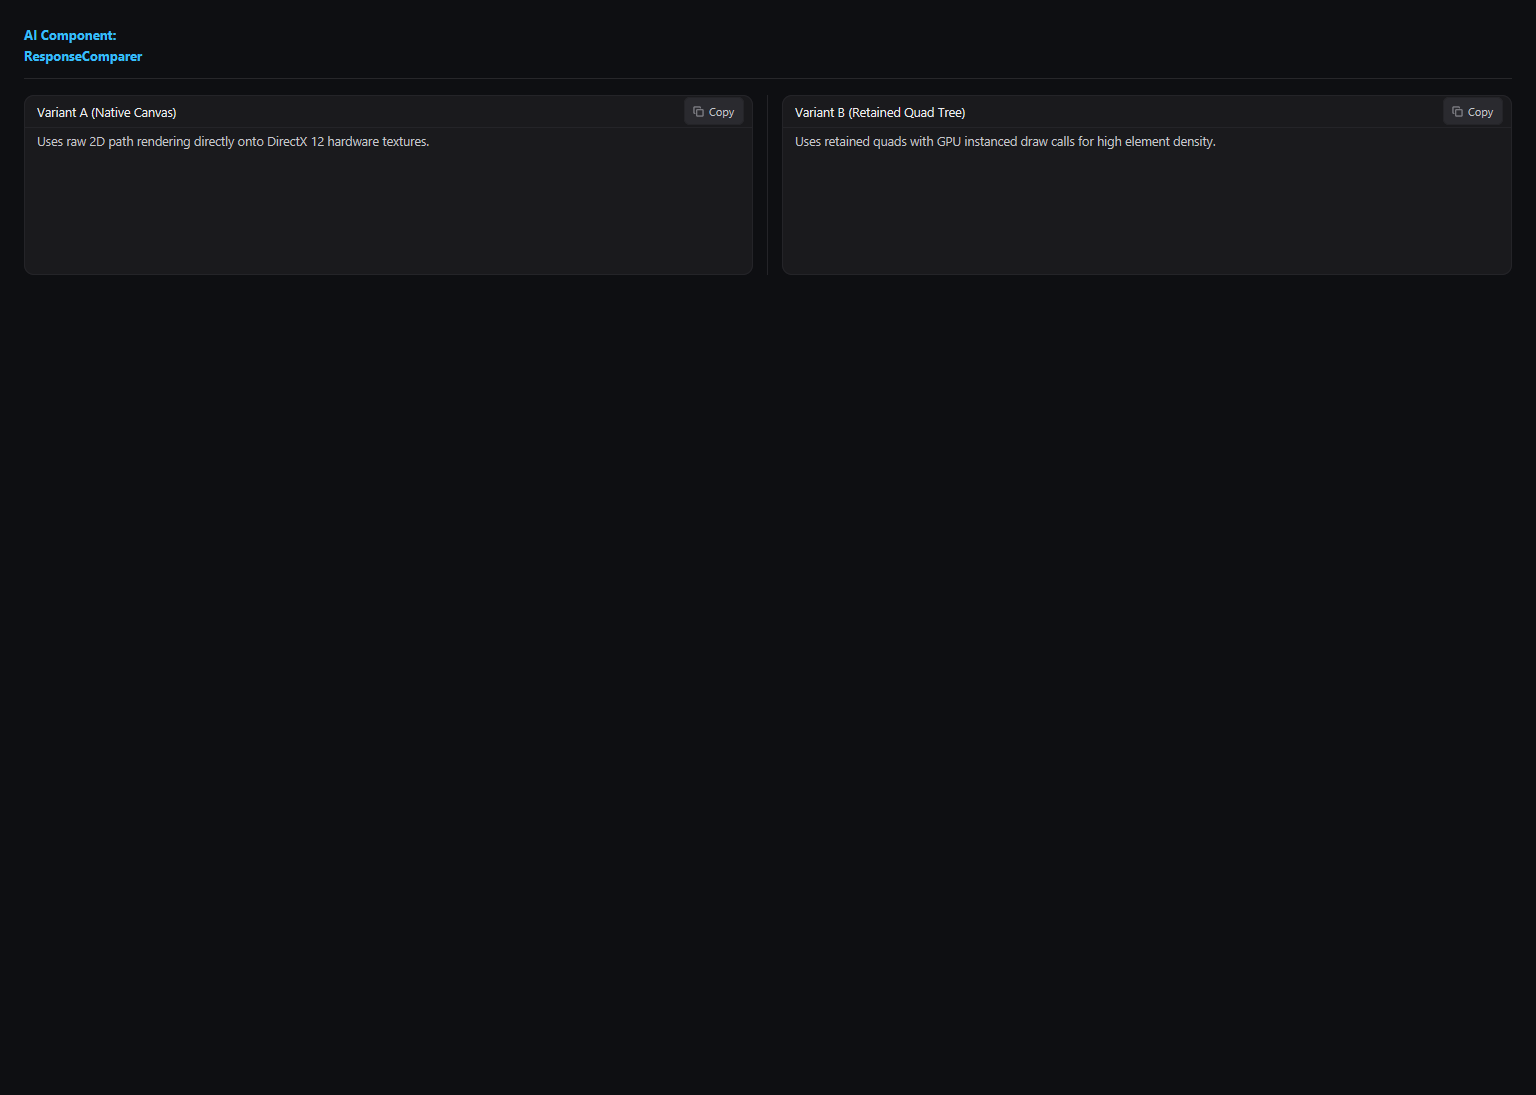
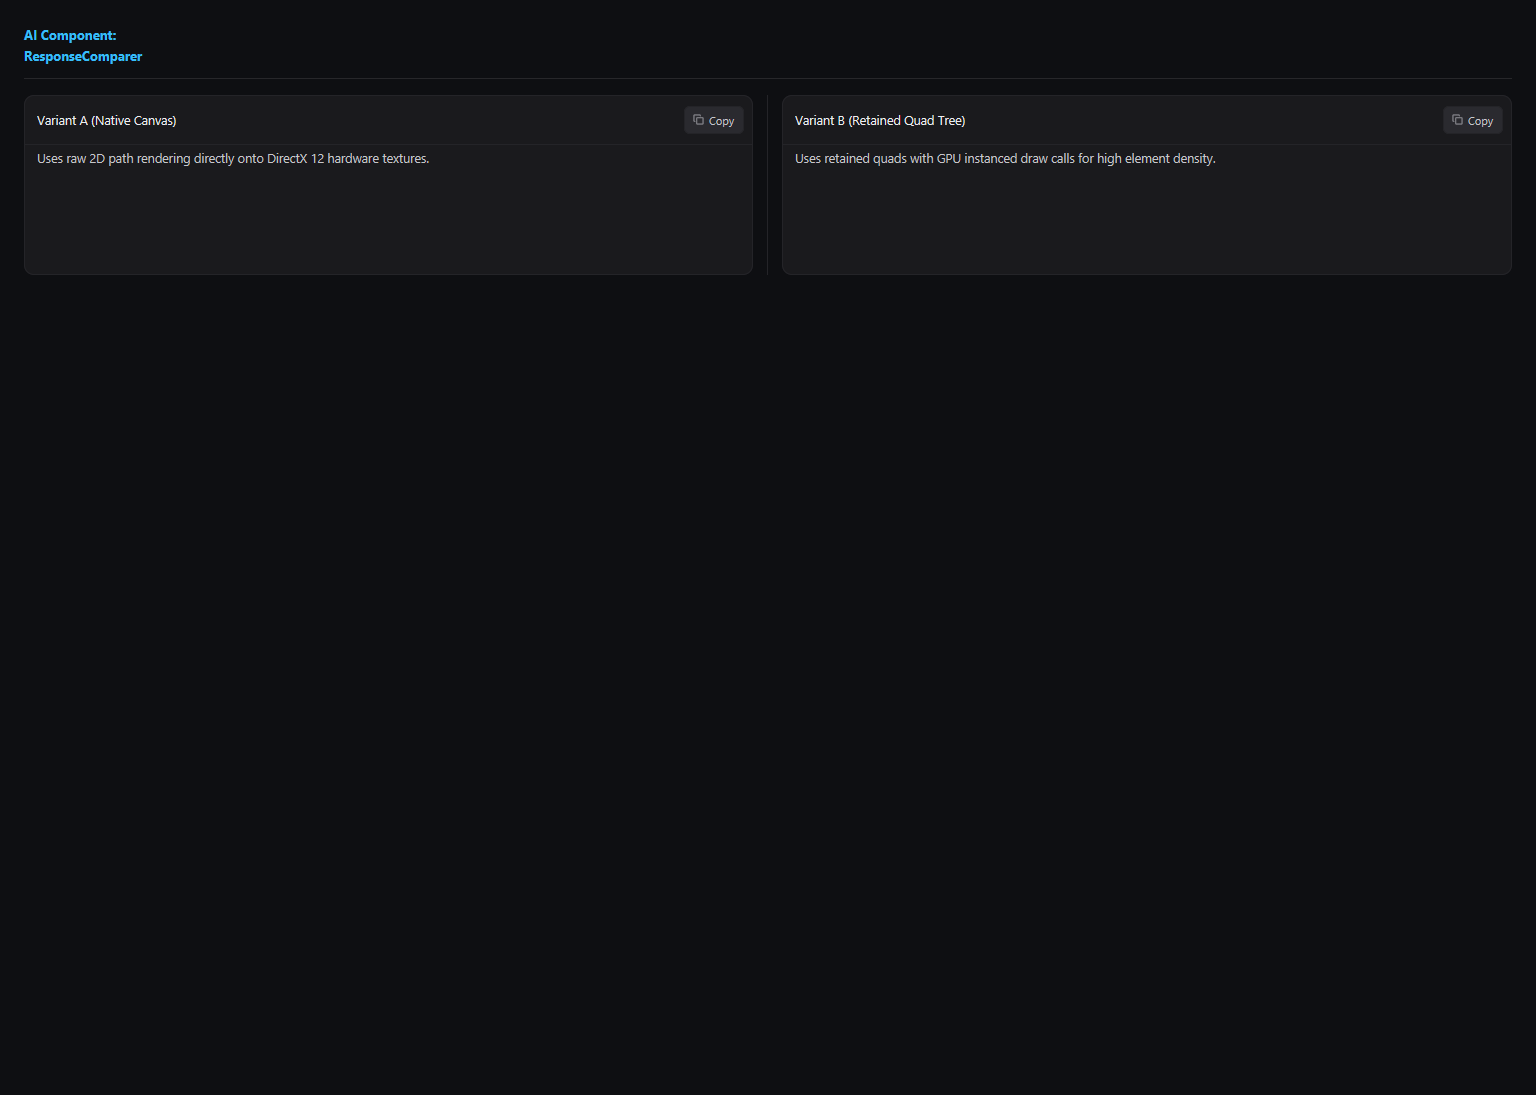
fix(ai): add padding to ModelLab comparison copy buttons

Changed region(s): [[0.4375, 0.0932, 0.8125, 0.1553], [0.0312, 0.0932, 0.2812, 0.1553], [0.9375, 0.0932, 0.9688, 0.1242]]

diff --git a/packages/ui/src/ai/ResponseComparer.tsx b/packages/ui/src/ai/ResponseComparer.tsx
@@ -32,7 +32,7 @@ function Pane({ r, onCopy }: { r?: ComparableResponse; onCopy?: (id: string, con
   }
   return (
     <div style={{ display: 'flex', flexDirection: 'column', height: 180, borderRadius: 10, borderWidth: 1, borderColor: border.subtle, backgroundColor: surface.card, overflow: 'hidden' }}>
-      <div style={{ height: 32, paddingLeft: 12, paddingRight: 8, display: 'flex', flexDirection: 'row', alignItems: 'center', justifyContent: 'space-between', borderBottomWidth: 1, borderColor: border.subtle }}>
+      <div style={{ paddingLeft: 12, paddingRight: 8, paddingTop: 10, paddingBottom: 10, display: 'flex', flexDirection: 'row', alignItems: 'center', justifyContent: 'space-between', borderBottomWidth: 1, borderColor: border.subtle }}>
         <text style={{ fontSize: 12.5, fontWeight: 600, color: textTokens.primary, fontFamily: FONT, lineHeight: 1 }}>{r.label ?? 'Response'}</text>
         <CopyButton value={r.content ?? ''} onCopy={onCopy ? () => onCopy(r.id, r.content ?? '') : undefined} />
       </div>
